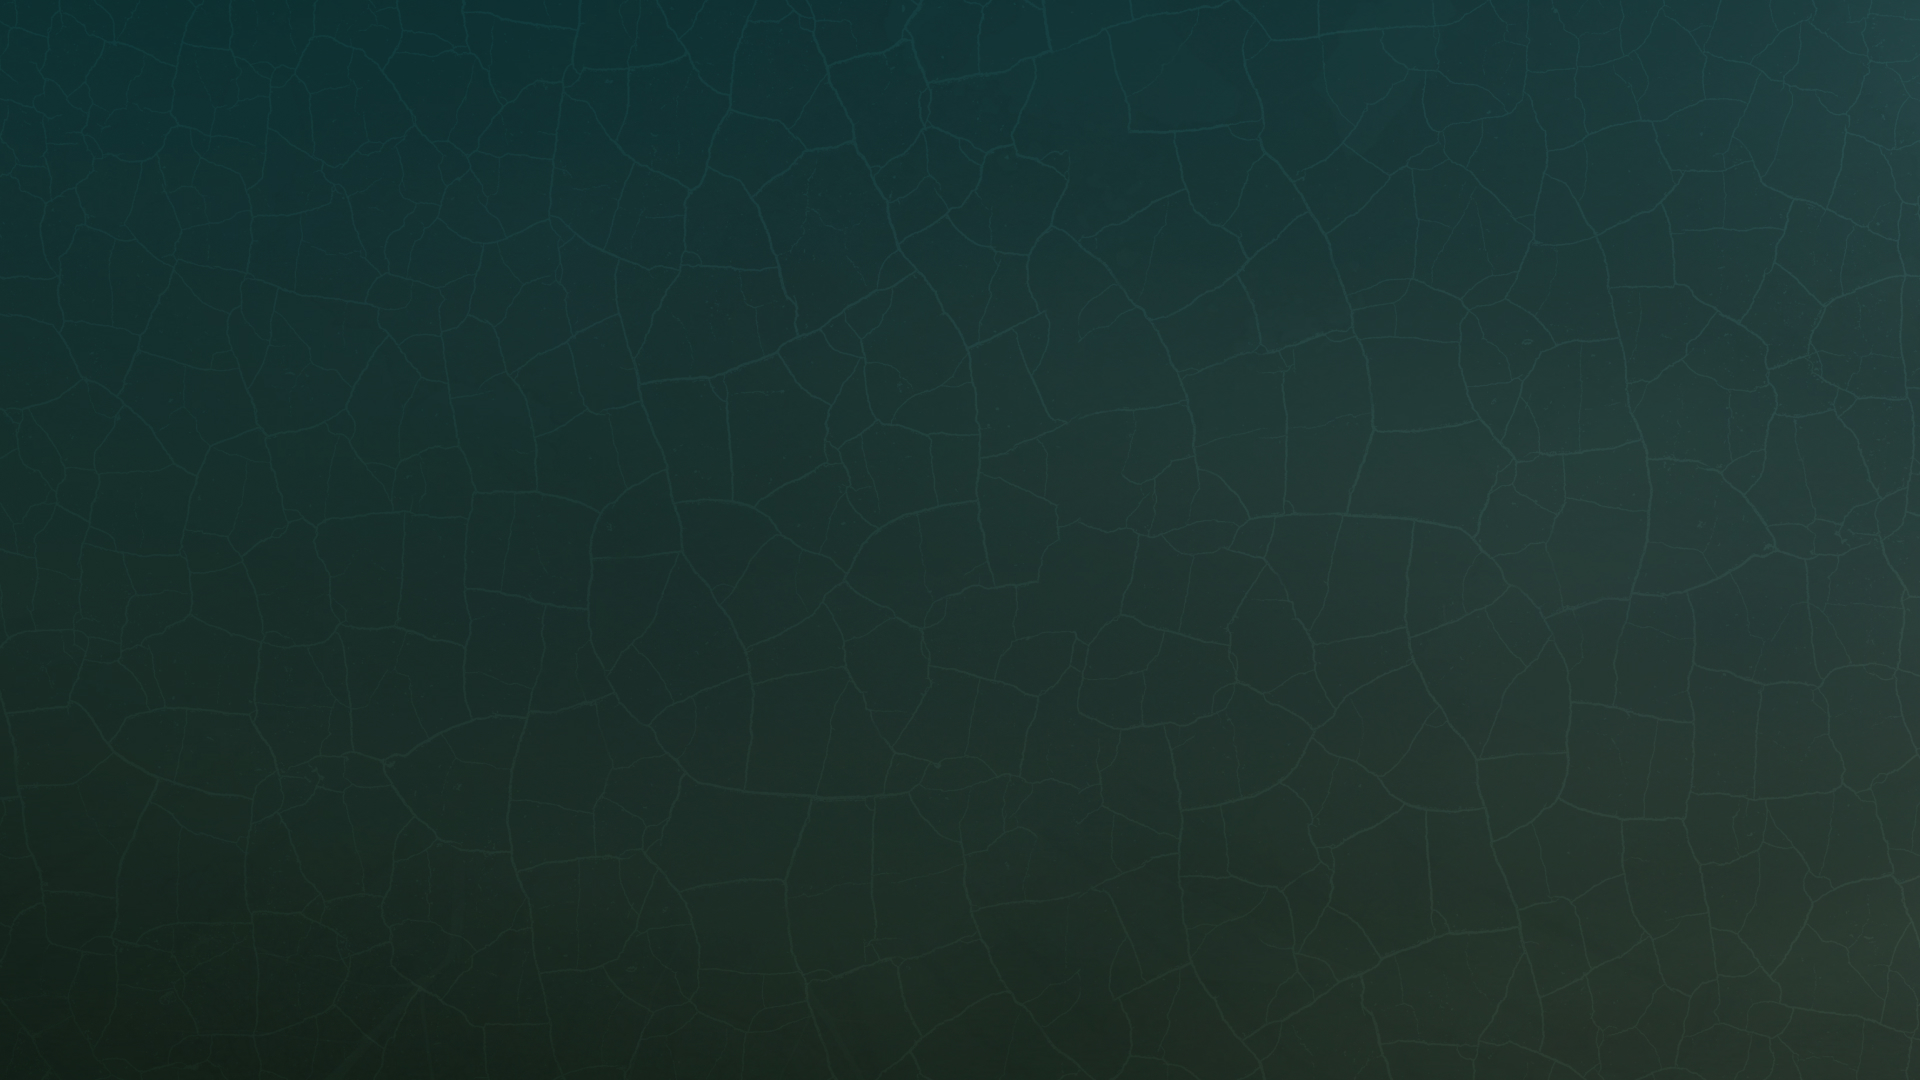
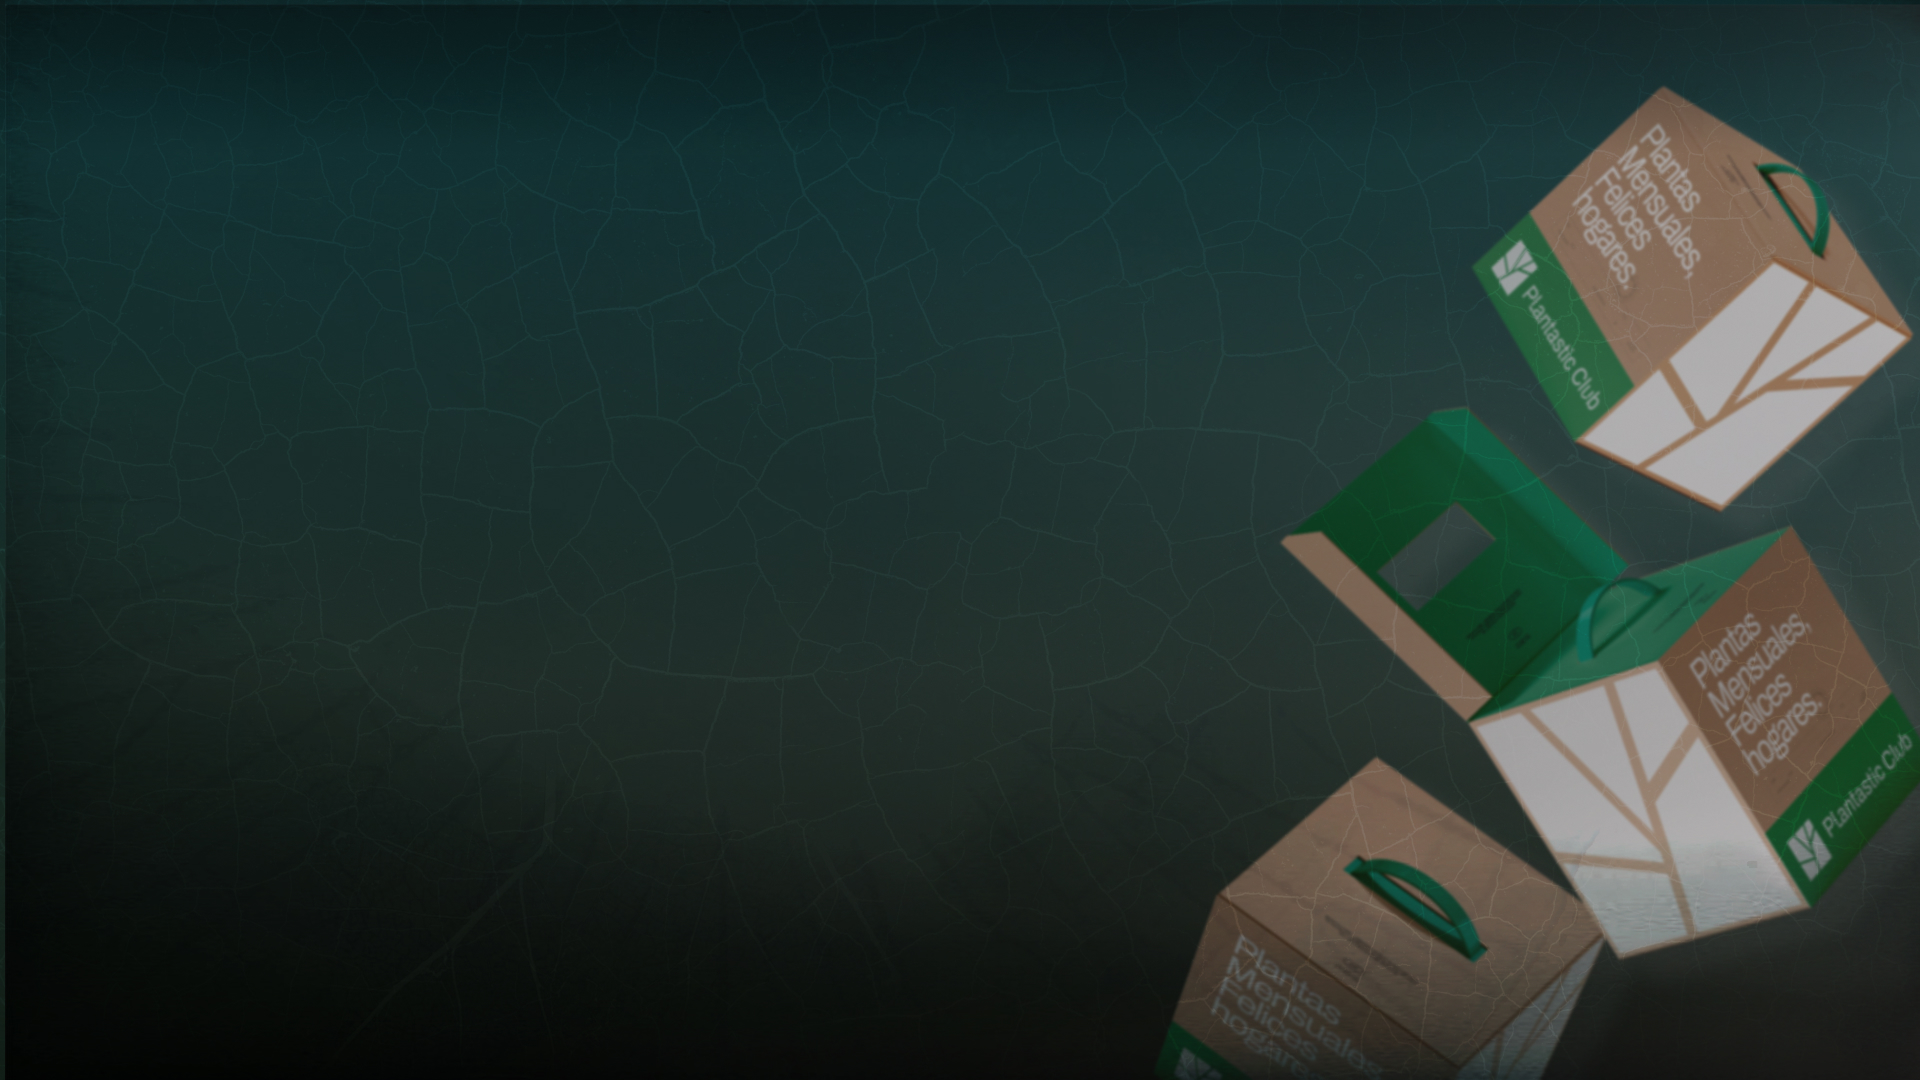
cambios hero

diff --git a/index.html b/index.html
@@ -127,7 +127,7 @@
           </div>
         </div>
         <div class="col-lg-6 hero-img" data-aos="zoom-out" data-aos-delay="200">
-          <img src="assets/img/hero-img-box.png" class="img-fluid" alt="">
+          <img src="assets/img/Planta hero.png" class="img-fluid" alt="">
         </div>
       </div>
     </div>
@@ -347,7 +347,7 @@
 
   <div class="container" data-aos="fade-up">
 
-    <header class="section-header">
+    <header class="section-header" style="color: #ffff">
       <h2>Suscripciones</h2>
       <p>Suscribite y formá parte</p>
       <h6  class="textohorror">
@@ -361,15 +361,15 @@
       <div class="col-lg-4 col-md-6" data-aos="zoom-in" data-aos-delay="100">
         <div class="box">
           <span class="Time">Por 3 meses</span>
-          <h3 style="color: #ffff;">Free Plan</h3>
+          <h3 style="color: #ffff;">Plan Comprometido</h3>
           <div class="price"><sup>$</sup>1999<span> / mes</span></div>
           <img src="assets/img/pricing-free.png" class="img-fluid" alt="">
           <ul>
-            <li>Aida dere</li>
-            <li>Nec feugiat nisl</li>
-            <li>Nulla at volutpat dola</li>
-            <li class="na">Pharetra massa</li>
-            <li class="na">Massa ultricies mi</li>
+            <li>La cápsula incluye:</li>
+            <li>Planta de interior</li>
+            <li>Maceta decorativa</li>
+            <li>Instructivo de cuidado</li>
+            <li>2 herramentas de jardinería</li>
           </ul>
           <a href="#" class="btn-buy">Buy Now</a>
         </div>
@@ -380,16 +380,18 @@
           <!-- MARU Comment: Saque el featured del lado derecho
             <span class="featured">Featured</span>-->
             <span class="Time">Por 6 meses</span>
-          <h3 style="color: #ffff;">Starter Plan</h3>
+          <h3 style="color: #ffff;">Plan Aventurero</h3>
           <div class="price"><sup>$</sup>1299<span> / mes</span></div>
           <img src="assets/img/pricing-starter.png" class="img-fluid" alt="">
           <ul>
-            <li>Aida dere</li>
-            <li>Nec feugiat nisl</li>
-            <li>Nulla at volutpat dola</li>
-            <li>Pharetra massa</li>
-            <li class="na">Massa ultricies mi</li>
+            <li>La cápsula incluye:</li>
+            <li>Planta de interior</li>
+            <li>Maceta decorativa</li>
+            <li>Instructivo de cuidado</li>
+            <li>2 herramentas de jardinería</li>
+            <li class="na">Un regalo sorpresa especial</li>
           </ul>
+          
           <a href="#" class="btn-buy">Buy Now</a>
         </div>
       </div>
@@ -397,15 +399,17 @@
       <div class="col-lg-4 col-md-6" data-aos="zoom-in" data-aos-delay="300">
         <div class="box">
           <span class="Time">Por 12 meses</span>
-          <h3 style="color: #ffff;">Business Plan</h3>
+          <h3 style="color: #ffff;">Plan Visionario</h3>
           <div class="price"><sup>$</sup>1199<span> / mes</span></div>
           <img src="assets/img/pricing-business.png" class="img-fluid" alt="">
           <ul>
-            <li>Aida dere</li>
-            <li>Nec feugiat nisl</li>
-            <li>Nulla at volutpat dola</li>
-            <li>Pharetra massa</li>
-            <li>Massa ultricies mi</li>
+            <li>La cápsula incluye:</li>
+            <li>Planta de interior</li>
+            <li>Maceta decorativa</li>
+            <li>Instructivo de cuidado</li>
+            <li>2 herramentas de jardinería</li>
+            <li>Un regalo sorpresa especial</li>
+            <li class="na">Acceso a exclusivo contenido mensual en nuestro canal de Youtube</li>
           </ul>
           <a href="#" class="btn-buy">Buy Now</a>
         </div>

diff --git a/assets/css/style.css b/assets/css/style.css
@@ -104,6 +104,11 @@ section {
   margin-bottom: 2.1%;
 }
 
+
+.section-pricing{
+  color: #ddd;
+}
+
 @media (max-width: 768px) {
   .section-header p {
     font-size: 28px;
@@ -797,7 +802,7 @@ section {
 }
 
 .features .feture-tabs h3 {
-  color: ##08874A;
+  color: #08874A;
   font-weight: 700;
   font-size: 32px;
   margin-bottom: 10px;
@@ -948,6 +953,7 @@ section {
   margin: auto;
   line-height: 24px;
   text-align: center;
+  font-weight: 300;
   }
 
 .services .service-box .read-more {
@@ -1086,10 +1092,14 @@ section {
 .pricing {
   width: 100%;
  padding-top: 20%;
- padding-bottom: 30%;
+ padding-bottom: 35%;
   background: url(../img/fondo-pricing.png) top center no-repeat;
   background-size: cover;
   } 
+
+.pcolor{
+  color: #ffff;
+}
 
 .pricing .box {
   padding: 40px 20px;
@@ -1103,6 +1113,7 @@ section {
   overflow: hidden;
   transition: 0.3s;
   margin-top: 20%;
+  height: 820px;
 }
 
 .pricing .box:hover {
@@ -1118,7 +1129,7 @@ section {
 
 .pricing .price {
   font-size: 36px;
-  color: #444444;
+  color: #25D471;
   font-weight: 600;
   font-family: "Poppins", sans-serif;
 }
@@ -1137,14 +1148,14 @@ section {
 }
 
 .pricing img {
-  padding: 30px 40px;
+  padding: 20px 40px;
   
 }
 
 .pricing ul {
   padding: 0;
   list-style: none;
-  color: #444444;
+  color: #d4cfcf;
   text-align: center;
   line-height: 26px;
   font-size: 16px;
@@ -1156,8 +1167,8 @@ section {
 }
 
 .pricing ul .na {
-  color: #ccc;
-  text-decoration: line-through;
+  color: #E1FD91;
+  
 }
 
 .pricing .btn-buy {
